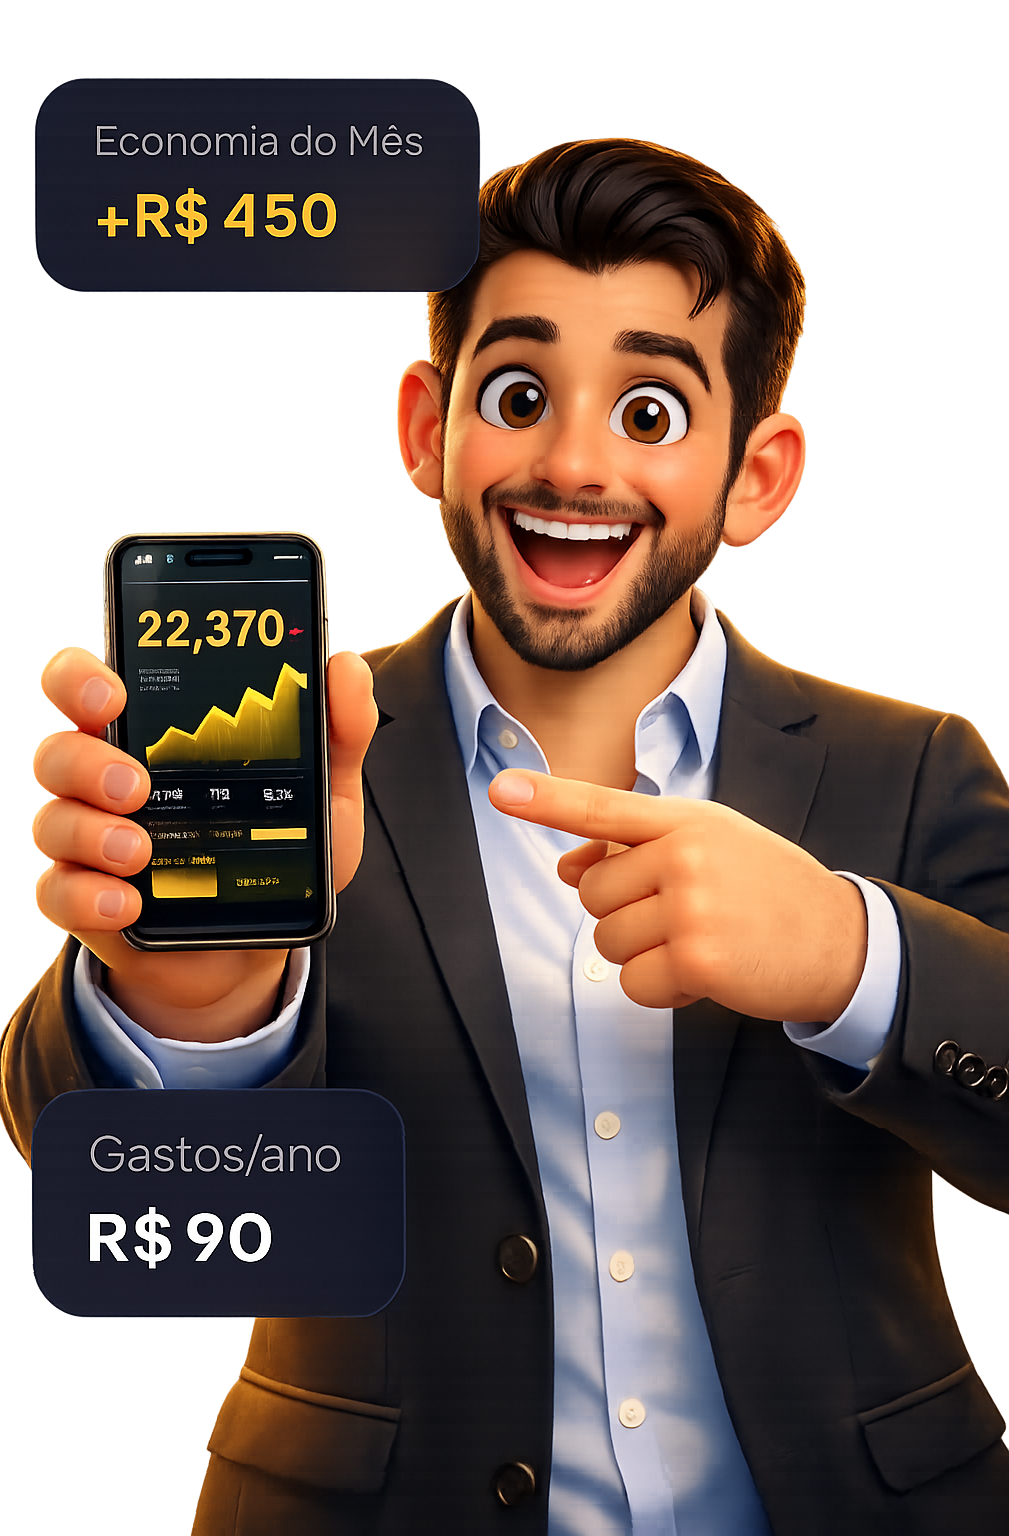
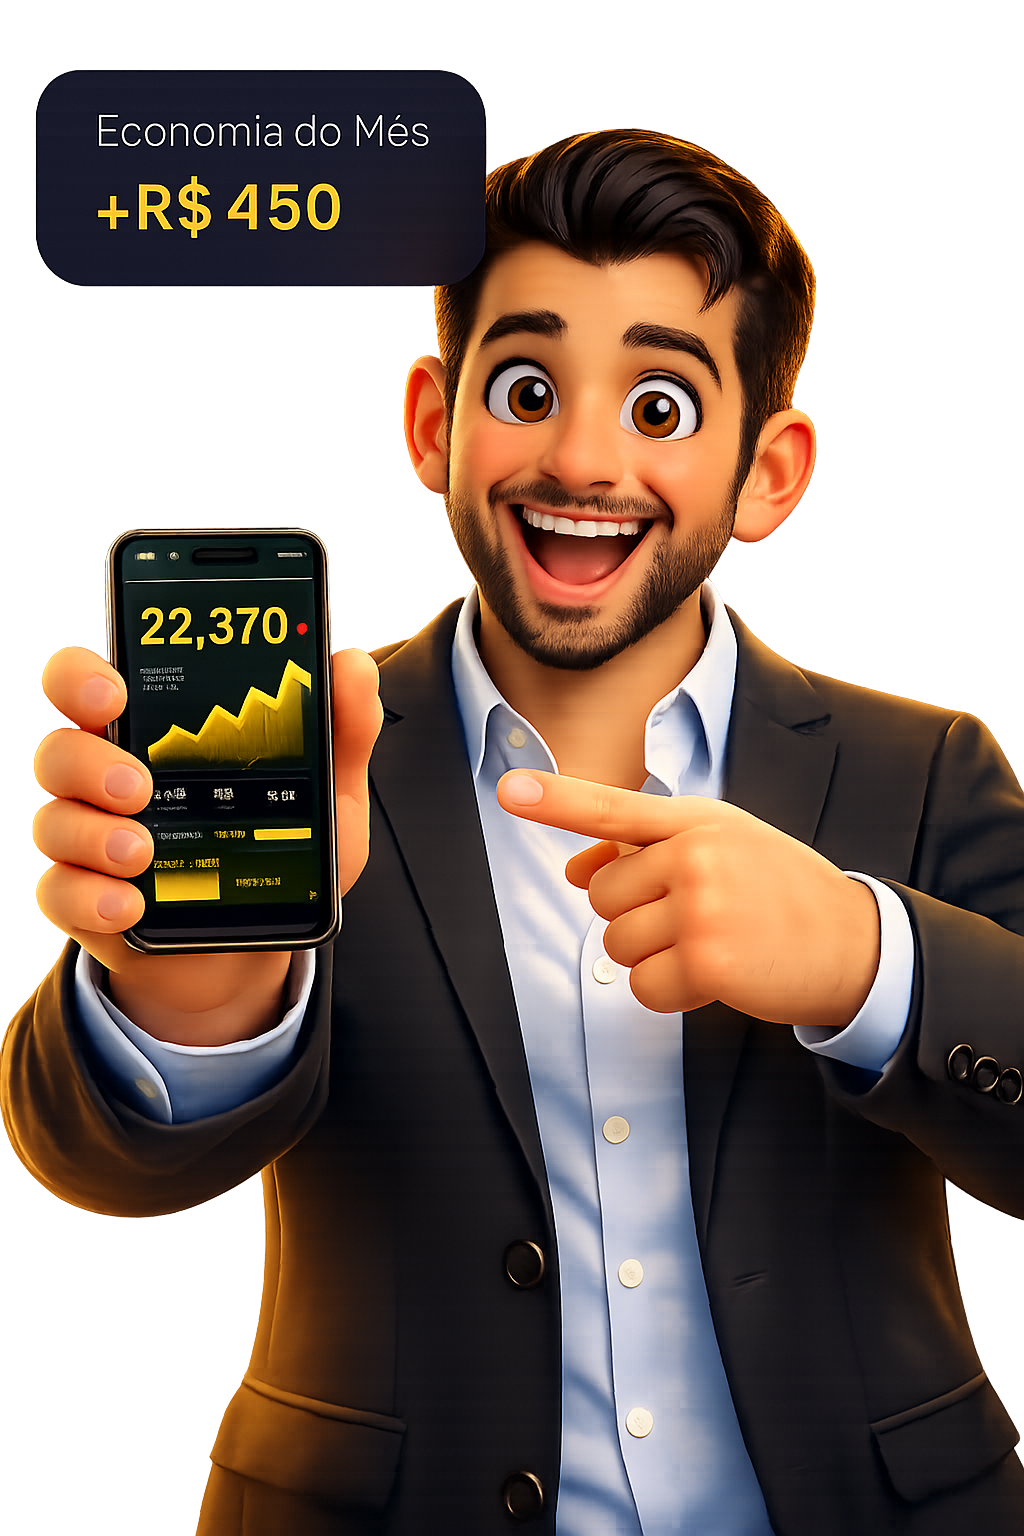
Add files via upload

diff --git a/Templates/LP_V2/template_App/index.html b/Templates/LP_V2/template_App/index.html
@@ -4,7 +4,7 @@
 <head>
     <meta charset="UTF-8">
     <meta name="viewport" content="width=device-width, initial-scale=1.0">
-    <title>Galvao IA</title>
+    <title>Galvão IA</title>
     <!-- Tailwind CSS (CDN) -->
     <script src="https://cdn.tailwindcss.com"></script>
     <script>
@@ -35,8 +35,8 @@
         <div class="max-w-7xl mx-auto px-4 sm:px-6 lg:px-8">
             <div class="flex items-center justify-between h-20">
                 <div class="flex items-center gap-2">
-                    <img src="img/icone.png" alt="Galvao IA" class="w-8 h-8 object-contain">
-                    <span class="font-bold text-xl tracking-tight text-white">Galvao <span
+                    <img src="img/icone.png" alt="Galvão IA" class="w-8 h-8 object-contain">
+                    <span class="font-bold text-xl tracking-tight text-white">Galvão <span
                             class="text-gold">IA</span></span>
                 </div>
                 <div class="hidden md:flex gap-6 items-center">
@@ -95,7 +95,7 @@
                         <div
                             class="absolute top-1/2 left-1/2 -translate-x-1/2 -translate-y-1/2 w-[300px] h-[300px] bg-gold/15 rounded-full blur-[100px] -z-10">
                         </div>
-                        <img src="img/personagem_Galvao.png" alt="Assistente Galvao IA"
+                        <img src="img/personagem_Galvao.png?v=3" alt="Assistente Galvão IA"
                             class="w-full max-w-md lg:max-w-lg object-contain drop-shadow-[0_0_30px_rgba(255,255,255,0.05)]">
                     </div>
 
@@ -207,9 +207,9 @@
                         <!-- Coluna 1: WhatsApp Simulador -->
                         <div class="flex flex-col h-full bg-zinc-950/80 rounded-2xl border border-gray-700/50 overflow-hidden shadow-inner w-full max-w-md mx-auto lg:max-w-none">
                             <div class="bg-zinc-800/80 p-4 border-b border-gray-700/50 flex items-center gap-3">
-                                <img src="img/icone.png" class="w-8 h-8 rounded-full" alt="Galvao IA">
+                                <img src="img/icone.png" class="w-8 h-8 rounded-full" alt="Galvão IA">
                                 <div>
-                                    <h4 class="text-white font-bold text-sm">Galvao IA</h4>
+                                    <h4 class="text-white font-bold text-sm">Galvão IA</h4>
                                     <span class="text-green-500 text-xs font-semibold">Online</span>
                                 </div>
                             </div>
@@ -299,7 +299,7 @@
                     A maioria das pessoas até tenta se organizar… Mas não consegue manter consistência.
                 </p>
                 <p class="text-lg text-gray-400 mb-12 leading-relaxed max-w-2xl mx-auto">
-                    O Galvao IA te ajuda no dia a dia, lembrando sobre compromissos e anotando facilmente cada centavo
+                    O Galvão IA te ajuda no dia a dia, lembrando sobre compromissos e anotando facilmente cada centavo
                     pelo app que você já usa todo dia. Ficar no controle não precisa ser uma segunda jornada de
                     trabalho.
                 </p>
@@ -315,7 +315,7 @@
         <section id="depoimentos" class="py-24 relative bg-zinc-900/20 border-t border-gray-800/50 overflow-hidden">
             <div class="max-w-7xl mx-auto px-4 sm:px-6 lg:px-8">
                 <div class="text-center mb-16">
-                    <h2 class="text-3xl md:text-5xl font-bold text-white mb-4">O que dizem sobre o Galvao IA</h2>
+                    <h2 class="text-3xl md:text-5xl font-bold text-white mb-4">O que dizem sobre o Galvão IA</h2>
                     <p class="text-lg text-gray-400 max-w-2xl mx-auto">Histórias reais de quem assumiu o controle financeiro.</p>
                 </div>
                 
@@ -327,20 +327,22 @@
 
                     <div class="flex animate-marquee hover:animation-paused">
                         <!-- Trilha Principal -->
-                        <div class="flex gap-6 md:gap-8 pr-6 md:pr-8 shrink-0 items-center justify-around min-w-full">
+                        <div class="flex gap-6 md:gap-8 pr-6 md:pr-8 shrink-0 items-center w-max">
                             <img src="./depoimentos/Depoimento_1.jpeg" class="w-64 md:w-80 h-auto object-cover rounded-2xl border border-gray-800 shadow-[0_0_20px_rgba(255,255,255,0.02)] select-none" alt="Depoimento 1">
                             <img src="./depoimentos/Depoimento_2.jpeg" class="w-64 md:w-80 h-auto object-cover rounded-2xl border border-gray-800 shadow-[0_0_20px_rgba(255,255,255,0.02)] select-none" alt="Depoimento 2">
                             <img src="./depoimentos/Depoimento_3.jpeg" class="w-64 md:w-80 h-auto object-cover rounded-2xl border border-gray-800 shadow-[0_0_20px_rgba(255,255,255,0.02)] select-none" alt="Depoimento 3">
                             <img src="./depoimentos/Depoimento_4.jpeg" class="w-64 md:w-80 h-auto object-cover rounded-2xl border border-gray-800 shadow-[0_0_20px_rgba(255,255,255,0.02)] select-none" alt="Depoimento 4">
-                            <img src="./depoimentos/Depoimento_5.jpeg" class="w-64 md:w-80 h-auto object-cover rounded-2xl border border-gray-800 shadow-[0_0_20px_rgba(255,255,255,0.02)] select-none" alt="Depoimento 5">
+                            <img src="./depoimentos/Depoimentos_5.jpeg" class="w-64 md:w-80 h-auto object-cover rounded-2xl border border-gray-800 shadow-[0_0_20px_rgba(255,255,255,0.02)] select-none" alt="Depoimento 5">
+                            <img src="./depoimentos/Depoimento_6.jpeg" class="w-64 md:w-80 h-auto object-cover rounded-2xl border border-gray-800 shadow-[0_0_20px_rgba(255,255,255,0.02)] select-none" alt="Depoimento 6">
                         </div>
                         <!-- Trilha Duplicada para Loop Perfeito -->
-                        <div class="flex gap-6 md:gap-8 pr-6 md:pr-8 shrink-0 items-center justify-around min-w-full" aria-hidden="true">
+                        <div class="flex gap-6 md:gap-8 pr-6 md:pr-8 shrink-0 items-center w-max" aria-hidden="true">
                             <img src="./depoimentos/Depoimento_1.jpeg" class="w-64 md:w-80 h-auto object-cover rounded-2xl border border-gray-800 shadow-[0_0_20px_rgba(255,255,255,0.02)] select-none" alt="Depoimento 1">
                             <img src="./depoimentos/Depoimento_2.jpeg" class="w-64 md:w-80 h-auto object-cover rounded-2xl border border-gray-800 shadow-[0_0_20px_rgba(255,255,255,0.02)] select-none" alt="Depoimento 2">
                             <img src="./depoimentos/Depoimento_3.jpeg" class="w-64 md:w-80 h-auto object-cover rounded-2xl border border-gray-800 shadow-[0_0_20px_rgba(255,255,255,0.02)] select-none" alt="Depoimento 3">
                             <img src="./depoimentos/Depoimento_4.jpeg" class="w-64 md:w-80 h-auto object-cover rounded-2xl border border-gray-800 shadow-[0_0_20px_rgba(255,255,255,0.02)] select-none" alt="Depoimento 4">
-                            <img src="./depoimentos/Depoimento_5.jpeg" class="w-64 md:w-80 h-auto object-cover rounded-2xl border border-gray-800 shadow-[0_0_20px_rgba(255,255,255,0.02)] select-none" alt="Depoimento 5">
+                            <img src="./depoimentos/Depoimentos_5.jpeg" class="w-64 md:w-80 h-auto object-cover rounded-2xl border border-gray-800 shadow-[0_0_20px_rgba(255,255,255,0.02)] select-none" alt="Depoimento 5">
+                            <img src="./depoimentos/Depoimento_6.jpeg" class="w-64 md:w-80 h-auto object-cover rounded-2xl border border-gray-800 shadow-[0_0_20px_rgba(255,255,255,0.02)] select-none" alt="Depoimento 6">
                         </div>
                     </div>
                 </div>
@@ -497,8 +499,8 @@
             <div class="grid grid-cols-1 md:grid-cols-2 gap-8 mb-12">
                 <div>
                     <div class="flex items-center gap-2 mb-4">
-                        <img src="img/icone.png" alt="Galvao IA" class="w-8 h-8 object-contain">
-                        <span class="font-bold text-xl tracking-tight text-white">Galvao <span
+                        <img src="img/icone.png" alt="Galvão IA" class="w-8 h-8 object-contain">
+                        <span class="font-bold text-xl tracking-tight text-white">Galvão <span
                                 class="text-gold">IA</span></span>
                     </div>
                     <p class="text-sm text-gray-400 max-w-xs leading-relaxed">Capacitando você a tomar as rédeas da sua
@@ -525,7 +527,7 @@
             </div>
 
             <div class="border-t border-gray-800 pt-8 text-center text-sm text-gray-500">
-                &copy; <span id="current-year"></span> Galvao IA. Todos os direitos reservados.
+                &copy; <span id="current-year"></span> Galvão IA. Todos os direitos reservados.
             </div>
         </div>
     </footer>

diff --git a/Templates/LP_V2/template_App/styles.css b/Templates/LP_V2/template_App/styles.css
@@ -52,7 +52,7 @@ html {
 }
 
 .animate-marquee {
-    animation: marquee 40s linear infinite;
+    animation: marquee 6.14s linear infinite;
     display: flex;
     width: max-content;
 }